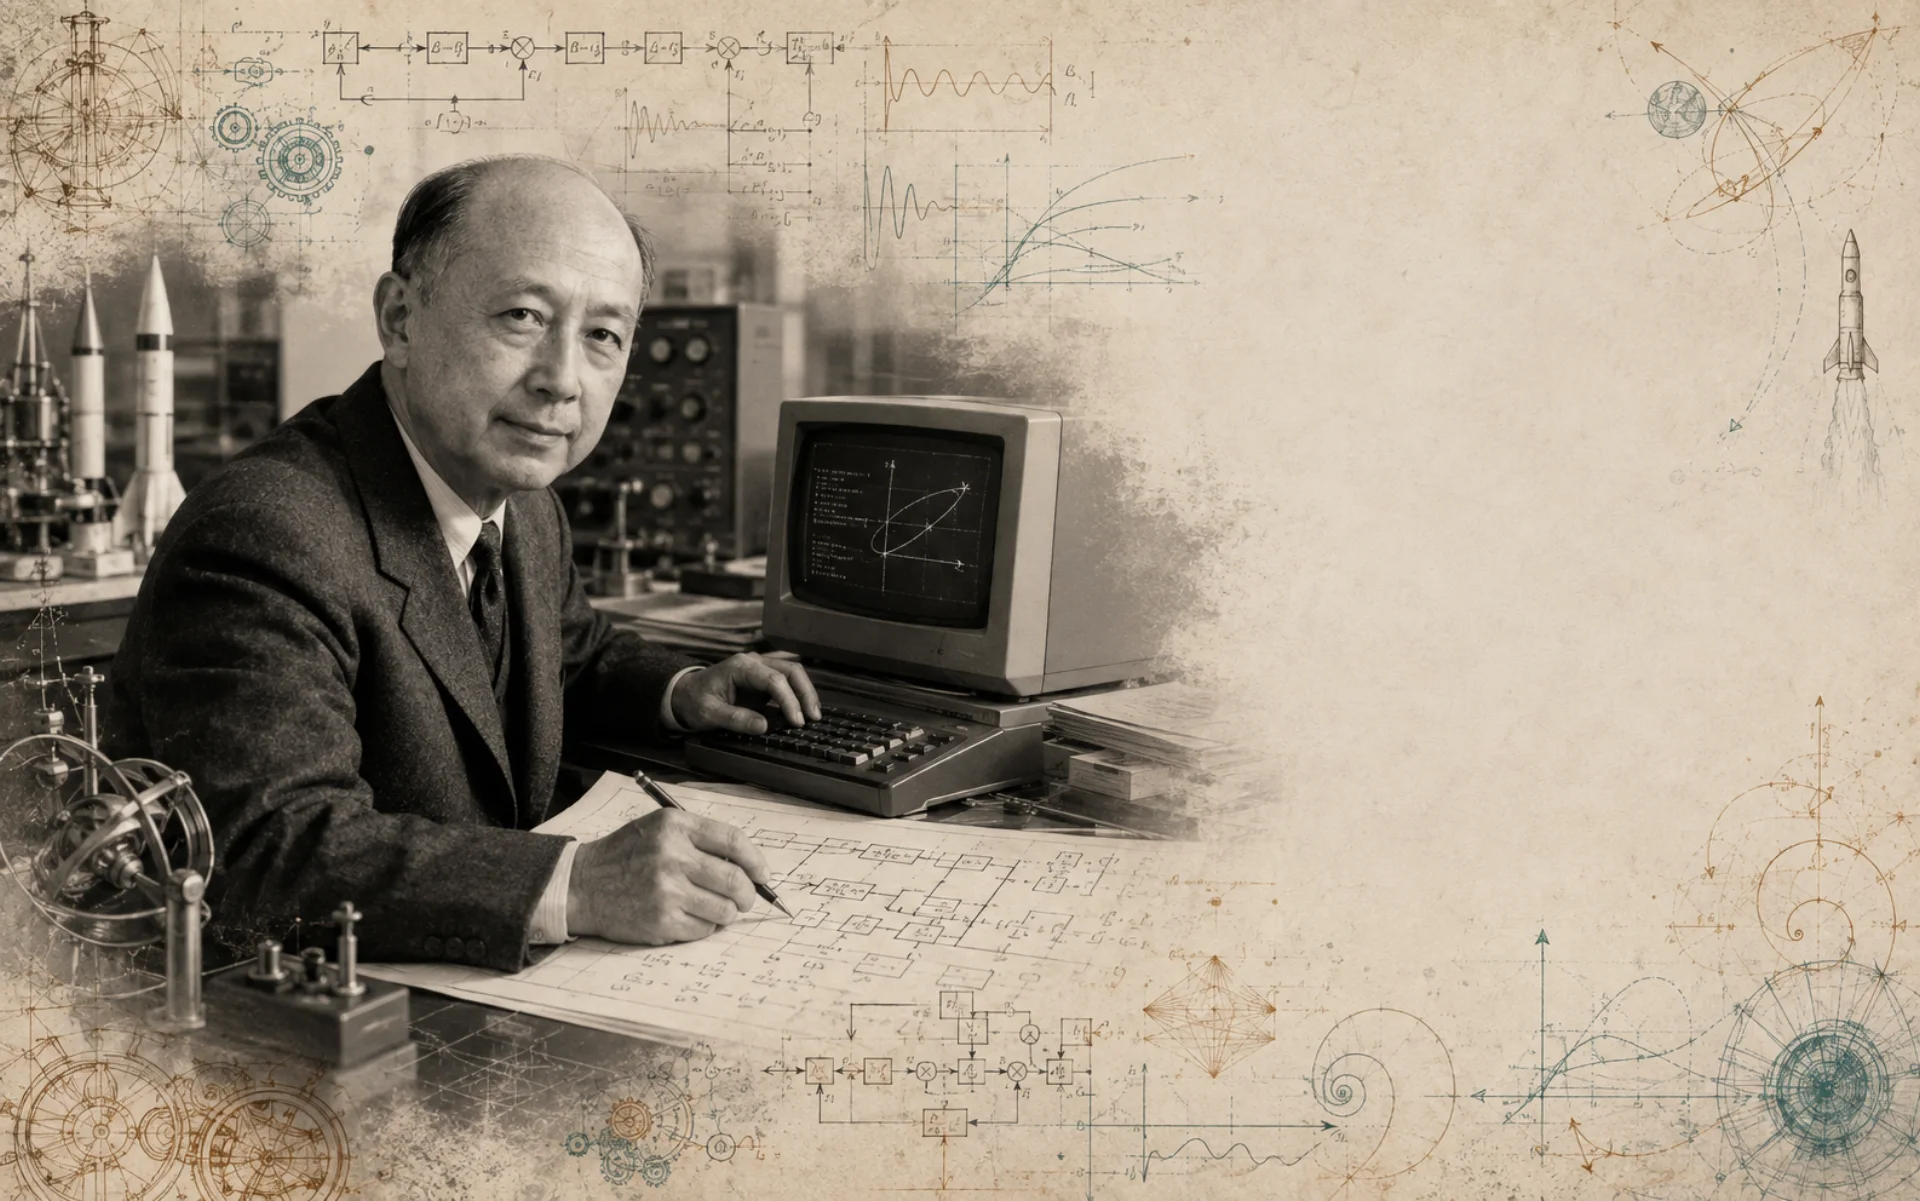
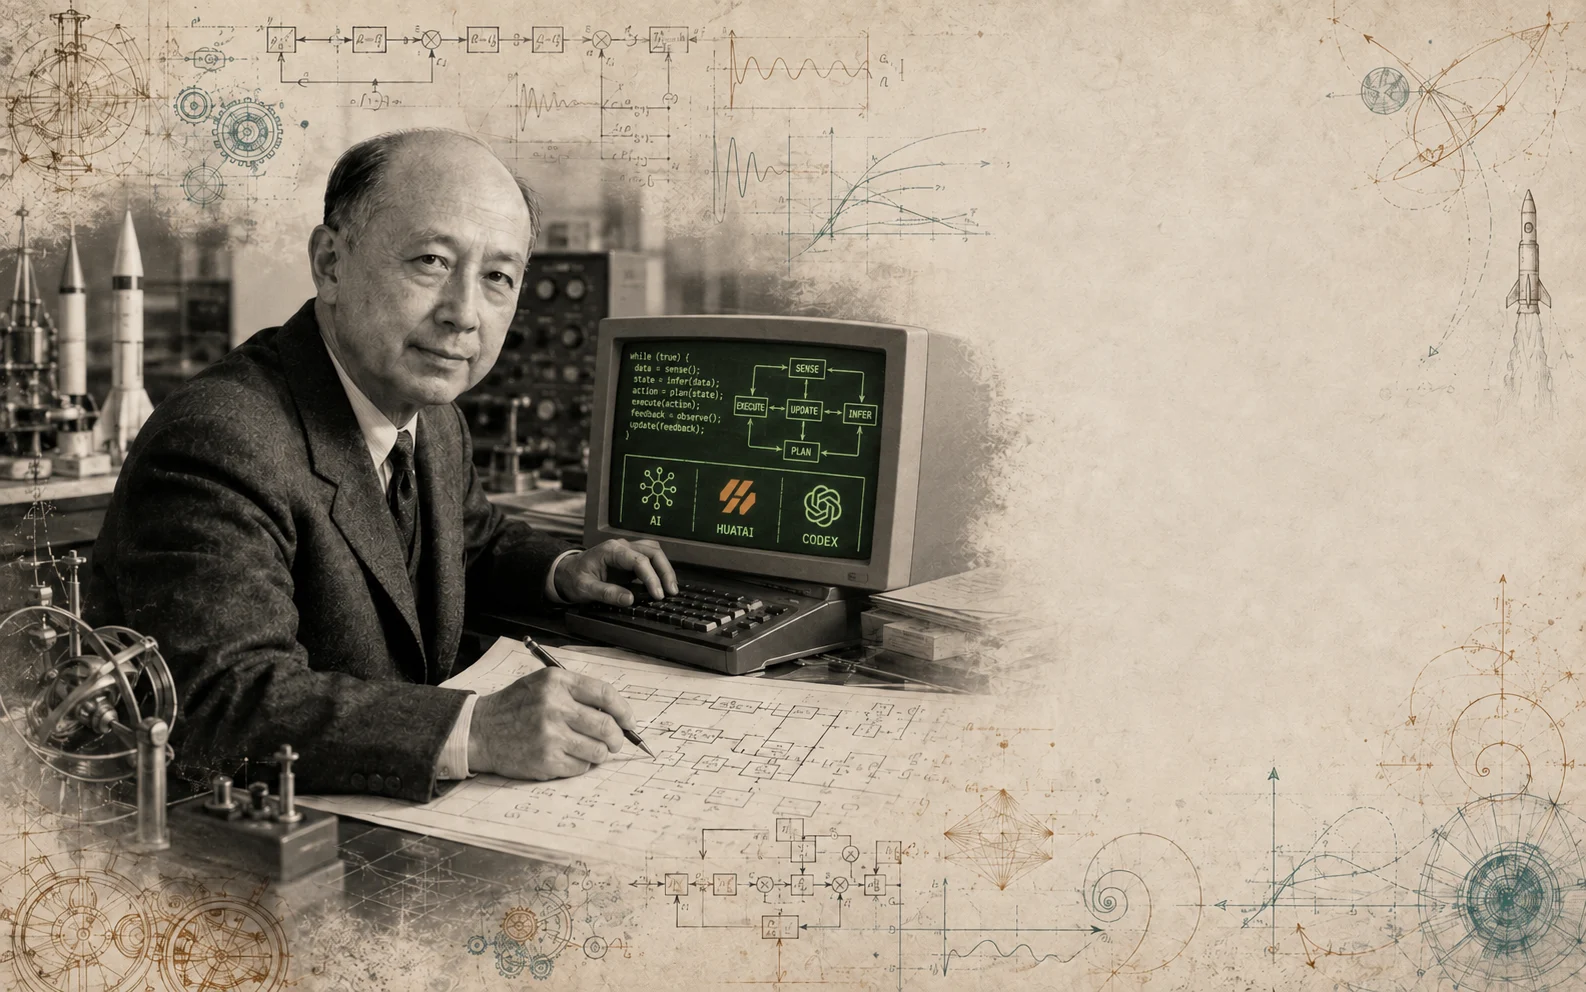
Upgrade control loop and AI opportunity lens

diff --git a/lanes/control/styles.css b/lanes/control/styles.css
@@ -74,7 +74,7 @@ button, a { font: inherit; }
   height: 100%;
   display: block;
   object-fit: cover;
-  object-position: 30% 50%;
+  object-position: 30% 20%;
   filter: saturate(.78) contrast(1.02) sepia(.08);
 }
 
@@ -270,11 +270,33 @@ button, a { font: inherit; }
   overflow: hidden;
   contain: layout style paint;
   border: 1px solid #26382f;
+  background: #07120f;
+}
+
+.loop-stage::before {
+  content: "";
+  position: absolute;
+  z-index: 2;
+  inset: 0;
   background:
-    radial-gradient(circle at 50% 48%, rgba(169, 101, 58, .11), transparent 25%),
-    linear-gradient(rgba(255, 255, 255, .026) 1px, transparent 1px) 0 0 / 34px 34px,
-    linear-gradient(90deg, rgba(255, 255, 255, .026) 1px, transparent 1px) 0 0 / 34px 34px,
-    var(--forest);
+    radial-gradient(circle at 50% 49%, rgba(4, 15, 12, .03) 0 18%, rgba(4, 15, 12, .58) 45%, rgba(4, 15, 12, .14) 76%),
+    linear-gradient(90deg, rgba(3, 12, 10, .26), transparent 24% 76%, rgba(3, 12, 10, .26));
+  pointer-events: none;
+}
+
+.control-loop-art {
+  position: absolute;
+  z-index: 1;
+  inset: 0;
+  width: 100%;
+  height: 100%;
+  display: block;
+  object-fit: cover;
+  object-position: 50% 50%;
+  opacity: .88;
+  filter: saturate(.82) contrast(1.06) brightness(.76);
+  animation: loop-art-breathe 8s ease-in-out infinite;
+  pointer-events: none;
 }
 
 .loop-stage::after {
@@ -282,7 +304,8 @@ button, a { font: inherit; }
   position: absolute;
   right: 13px;
   bottom: 10px;
-  color: rgba(242, 234, 219, .25);
+  z-index: 8;
+  color: rgba(242, 234, 219, .42);
   font: 800 8px/1 ui-monospace, SFMono-Regular, Menlo, monospace;
   letter-spacing: .17em;
 }
@@ -292,6 +315,7 @@ button, a { font: inherit; }
   inset: 6% 4%;
   width: 92%;
   height: 88%;
+  display: none;
   overflow: visible;
 }
 
@@ -351,10 +375,12 @@ button, a { font: inherit; }
   top: var(--y);
   width: clamp(142px, 18vw, 190px);
   padding: 11px 13px 12px;
-  border: 1px solid rgba(229, 218, 199, .24);
+  border: 1px solid rgba(229, 218, 199, .28);
   color: #e9e1d2;
-  background: rgba(20, 34, 28, .94);
-  opacity: .56;
+  background: rgba(7, 20, 16, .78);
+  box-shadow: 0 16px 38px rgba(0, 0, 0, .22), inset 0 0 28px rgba(94, 165, 129, .04);
+  backdrop-filter: blur(7px) saturate(.82);
+  opacity: .66;
   transform: translate(-50%, -50%) scale(.97);
   transition: transform .6s cubic-bezier(.16, 1, .3, 1), opacity .45s ease, background .45s ease, border-color .45s ease;
 }
@@ -369,7 +395,8 @@ button, a { font: inherit; }
 
 .loop-node.is-active {
   border-color: rgba(219, 168, 124, .88);
-  background: #2d3d33;
+  background: rgba(42, 60, 50, .94);
+  box-shadow: 0 0 0 1px rgba(239, 190, 131, .16), 0 0 30px rgba(217, 143, 75, .26), 0 18px 42px rgba(0, 0, 0, .34);
   opacity: 1;
   transform: translate(-50%, -50%) scale(1);
 }
@@ -386,7 +413,12 @@ button, a { font: inherit; }
   z-index: 3;
   left: 49%;
   top: 48%;
-  width: min(33%, 240px);
+  width: min(35%, 250px);
+  padding: 16px 17px;
+  border: 1px solid rgba(195, 138, 91, .32);
+  background: rgba(4, 17, 13, .7);
+  box-shadow: inset 0 0 32px rgba(75, 140, 108, .08), 0 12px 35px rgba(0, 0, 0, .24);
+  backdrop-filter: blur(8px);
   text-align: center;
   transform: translate(-50%, -50%);
 }
@@ -426,7 +458,100 @@ button, a { font: inherit; }
   grid-template-rows: auto minmax(0, 1fr) auto;
 }
 
+.opportunity-section {
+  grid-template-rows: auto auto auto auto;
+  align-content: start;
+}
+
 .work-heading { border-bottom: 1px solid var(--line); }
+.work-heading > p {
+  max-width: 230px;
+  margin: 0 0 1px;
+  color: var(--muted);
+  font-size: 10px;
+  line-height: 1.55;
+  text-align: right;
+}
+
+.opportunity-ladder { display: grid; }
+
+.opportunity-tier {
+  position: relative;
+  padding: 14px 15px 13px 52px;
+  border-bottom: 1px solid var(--line);
+  overflow: hidden;
+}
+
+.opportunity-tier::before {
+  content: "";
+  position: absolute;
+  left: 0;
+  top: 0;
+  bottom: 0;
+  width: 4px;
+  background: #9da69e;
+}
+
+.opportunity-tier::after {
+  content: attr(data-tier);
+  position: absolute;
+  right: 4px;
+  top: 7px;
+  color: rgba(24, 37, 31, .045);
+  font: 900 48px/1 ui-monospace, SFMono-Regular, Menlo, monospace;
+}
+
+.opportunity-tier header {
+  display: flex;
+  align-items: center;
+  justify-content: space-between;
+  gap: 12px;
+}
+
+.opportunity-tier header span,
+.opportunity-tier header b,
+.demo-map span {
+  font-family: ui-monospace, SFMono-Regular, Menlo, Monaco, Consolas, monospace;
+  letter-spacing: .07em;
+}
+
+.opportunity-tier header span { color: var(--copper); font-size: 8px; font-weight: 850; }
+.opportunity-tier header b { color: #818b84; font-size: 7px; }
+.opportunity-tier h3 { margin: 5px 0 0; font-size: clamp(15px, 1.14vw, 19px); line-height: 1.2; letter-spacing: -.015em; }
+.opportunity-tier > p { margin: 5px 0 8px; color: var(--muted); font-size: 9.5px; line-height: 1.5; }
+.opportunity-tier ul { display: flex; flex-wrap: wrap; gap: 5px; margin: 0 0 9px; padding: 0; list-style: none; }
+.opportunity-tier li { padding: 4px 7px; border: 1px solid #d1c8ba; color: #526058; background: rgba(250, 248, 242, .7); font-size: 8px; line-height: 1.25; }
+.opportunity-tier dl { display: grid; grid-template-columns: 1fr 1.45fr; gap: 8px; margin: 0; }
+.opportunity-tier dl > div { display: grid; grid-template-columns: max-content 1fr; gap: 6px; align-items: baseline; }
+.opportunity-tier dt { color: #8d694f; font-size: 8px; font-weight: 800; }
+.opportunity-tier dd { margin: 0; color: #425049; font-size: 8px; line-height: 1.35; }
+
+.tier-foundation { background: linear-gradient(90deg, rgba(255,255,255,.16), transparent); }
+.tier-foundation::before { background: #8c9a91; }
+.tier-structure { background: linear-gradient(90deg, rgba(169, 101, 58, .045), transparent 65%); }
+.tier-structure::before { background: var(--copper); }
+.tier-advanced { color: #f2ebdf; background: linear-gradient(115deg, #243a30, #15261f 72%); }
+.tier-advanced::before { background: linear-gradient(#dc9e68, #77baa0); }
+.tier-advanced header span { color: #efb680; }
+.tier-advanced header b { color: #a4c5b3; }
+.tier-advanced > p { color: #bdc9c0; }
+.tier-advanced li { border-color: rgba(195, 168, 138, .34); color: #dfe7df; background: rgba(255,255,255,.035); }
+.tier-advanced dt { color: #efb680; }
+.tier-advanced dd { color: #e1e8e2; }
+
+.demo-map {
+  display: grid;
+  grid-template-columns: repeat(3, 1fr);
+  border-bottom: 1px solid var(--line);
+}
+
+.demo-map article { min-width: 0; padding: 11px 12px 12px; border-right: 1px solid var(--line); }
+.demo-map article:last-child { border-right: 0; }
+.demo-map span { display: block; color: var(--copper); font-size: 7px; font-weight: 850; }
+.demo-map b { display: block; margin-top: 4px; font-size: 11px; }
+.demo-map p { margin: 4px 0 0; color: var(--muted); font-size: 8px; line-height: 1.45; }
+
+.opportunity-note { margin-top: 11px; }
 .work-list { min-height: 0; }
 
 .work-item {
@@ -504,6 +629,11 @@ button, a { font: inherit; }
   50% { opacity: .68; transform: scale(1); }
 }
 
+@keyframes loop-art-breathe {
+  0%, 100% { filter: saturate(.8) contrast(1.05) brightness(.73); transform: scale(1); }
+  50% { filter: saturate(.9) contrast(1.08) brightness(.82); transform: scale(1.008); }
+}
+
 @media (max-width: 1100px) {
   .control-page { overflow: auto; }
   .control-hero { grid-template-columns: minmax(220px, .6fr) minmax(0, 1fr); }
@@ -513,6 +643,7 @@ button, a { font: inherit; }
   .control-body { grid-template-columns: 1fr; }
   .loop-section { min-height: 620px; padding-right: 0; padding-bottom: 28px; border-right: 0; border-bottom: 1px solid var(--line); }
   .work-section { min-height: 650px; }
+  .opportunity-section { min-height: 0; }
 }
 
 @media (max-width: 720px) {
@@ -520,7 +651,7 @@ button, a { font: inherit; }
   .control-hero { display: block; min-height: 0; padding: 250px 18px 20px; }
   .control-hero::after { background: linear-gradient(180deg, transparent 0 185px, rgba(241, 237, 228, .86) 235px, var(--paper) 310px); }
   .control-portrait { width: 100%; height: 300px; }
-  .control-portrait img { object-position: 28% 44%; }
+  .control-portrait img { object-position: 28% 42%; }
   .control-portrait figcaption { left: 18px; bottom: 48px; }
   .control-kicker { margin-bottom: 20px; }
   .control-intro { margin-top: 20px; }
@@ -552,6 +683,13 @@ button, a { font: inherit; }
   .loop-centre p { margin-top: 6px; }
   .loop-boundary { grid-template-columns: max-content 1fr; padding: 15px 0 4px; }
   .work-section { min-height: 0; padding-top: 24px; }
+  .work-heading > p { max-width: none; text-align: left; }
+  .opportunity-tier { padding: 15px 12px 14px 34px; }
+  .opportunity-tier dl { grid-template-columns: 1fr; }
+  .opportunity-tier dl > div { grid-template-columns: 64px 1fr; }
+  .demo-map { grid-template-columns: 1fr; }
+  .demo-map article { border-right: 0; border-bottom: 1px solid var(--line); }
+  .demo-map article:last-child { border-bottom: 0; }
   .work-item { grid-template-columns: 32px minmax(0, 1fr); }
   .work-label { align-items: start; flex-direction: column; gap: 4px; }
   .work-copy h3 { font-size: 17px; }

diff --git a/lanes/control/index.html b/lanes/control/index.html
@@ -6,13 +6,13 @@
   <meta name="color-scheme" content="light">
   <meta name="theme-color" content="#f1ede4">
   <title>04 闭环 · 从自动化到可复验</title>
-  <link rel="stylesheet" href="styles.css?v=r11-0905">
+  <link rel="stylesheet" href="styles.css?v=r12-0905">
 </head>
 <body>
   <main class="control-page">
     <header class="control-hero">
       <figure class="control-portrait" aria-label="钱学森在控制系统工作台前进行人机协作的创意合成图">
-        <img src="assets/qian-control-vibe-coding.webp?v=r11-0905" alt="钱学森在老式工程工作台前使用计算机，照片边缘融入控制回路与达芬奇式工程线稿的创意合成图">
+        <img src="assets/qian-control-vibe-coding.webp?v=r12-0905" alt="钱学森在老式工程工作台前使用带有 AI、华泰和 Codex 标记的计算机，照片边缘融入控制回路与达芬奇式工程线稿的创意合成图">
         <figcaption>创意合成 · 并非历史照片</figcaption>
       </figure>
       <div class="control-kicker"><span>04</span> CONTROL LOOP</div>
@@ -44,6 +44,7 @@
         </div>
 
         <div id="loop-stage" class="loop-stage" aria-live="polite">
+          <img class="control-loop-art" src="assets/control-loop-blueprint.webp?v=r12-0905" alt="目标、观察、比较偏差与上游纠偏组成的控制系统能量闭环创意图">
           <svg class="loop-track" viewBox="0 0 760 430" role="img" aria-label="目标、观察、比较偏差、纠偏后回到目标的闭环">
             <defs>
               <marker id="loop-arrow" markerWidth="10" markerHeight="10" refX="7" refY="3" orient="auto" markerUnits="strokeWidth">
@@ -56,16 +57,16 @@
 
           <div id="loop-packet" class="loop-packet" aria-hidden="true"><i></i></div>
 
-          <article class="loop-node node-target is-active" data-loop-node="0" style="--x: 28%; --y: 14%;">
+          <article class="loop-node node-target is-active" data-loop-node="0" style="--x: 22%; --y: 20%;">
             <span>01</span><strong>定目标</strong><p>先说清什么叫做完</p><small>口径 · 边界 · 责任人</small>
           </article>
-          <article class="loop-node node-observe" data-loop-node="1" style="--x: 78%; --y: 39%;">
+          <article class="loop-node node-observe" data-loop-node="1" style="--x: 78%; --y: 22%;">
             <span>02</span><strong>看实际</strong><p>从来源和结果看事实</p><small>原文 · 公式 · 检查记录</small>
           </article>
-          <article class="loop-node node-compare" data-loop-node="2" style="--x: 55%; --y: 76%;">
+          <article class="loop-node node-compare" data-loop-node="2" style="--x: 78%; --y: 73%;">
             <span>03</span><strong>找偏差</strong><p>实际和目标哪里没对上</p><small>漏项 · 错配 · 例外</small>
           </article>
-          <article class="loop-node node-correct" data-loop-node="3" style="--x: 15%; --y: 61%;">
+          <article class="loop-node node-correct" data-loop-node="3" style="--x: 21%; --y: 74%;">
             <span>04</span><strong>修上游</strong><p>不在结果页打一块补丁</p><small>改来源 / 公式 / 规则，再跑</small>
           </article>
 
@@ -82,46 +83,47 @@
         </div>
       </section>
 
-      <section class="work-section" aria-labelledby="work-title">
+      <section class="work-section opportunity-section" aria-labelledby="work-title">
         <div class="section-heading work-heading">
-          <div><span>B / THREE WORK TYPES</span><h2 id="work-title">三类工作，最值得先做</h2></div>
+          <div><span>B / AI OPPORTUNITY LENS</span><h2 id="work-title">从业务需求，识别 AI 提效潜力</h2></div>
+          <p>别只盯着“重复劳动”。越往下，越接近判断增强。</p>
         </div>
 
-        <div class="work-list">
-          <article class="work-item" data-work="retrieval">
-            <div class="work-number">01</div>
-            <div class="work-copy">
-              <div class="work-label"><span>查资料</span><small>HERO 03 · 先例检索</small></div>
-              <h3>资料多、入口散，还要回到原文</h3>
-              <p>先把候选找全，再收窄到案例、页码和适用边界。</p>
-              <dl><div><dt>机器先做</dt><dd>检索、归组、回链</dd></div><div><dt>人来判断</dt><dd>是不是同一问题，案例能不能用</dd></div></dl>
-            </div>
+        <div class="opportunity-ladder">
+          <article class="opportunity-tier tier-foundation" data-tier="01">
+            <header><span>01 · 基础</span><b>AUTOMATE</b></header>
+            <h3>量大、重复、可以核证</h3>
+            <p>规则已经写得清楚，主要价值是少做机械动作、少漏项。</p>
+            <ul><li>批量抽取与格式检查</li><li>数据核证与勾稽</li><li>Checklist 重跑</li></ul>
+            <dl><div><dt>机器先做</dt><dd>执行、比对、留痕</dd></div><div><dt>人来判断</dt><dd>样本、阈值和例外</dd></div></dl>
           </article>
 
-          <article class="work-item" data-work="model">
-            <div class="work-number">02</div>
-            <div class="work-copy">
-              <div class="work-label"><span>跑模型</span><small>HERO 01 · 财务模型</small></div>
-              <h3>公式链长，一个假设会牵动很多表</h3>
-              <p>沿公式重算，比较实际与预期；对不上就展开 lineage。</p>
-              <dl><div><dt>机器先做</dt><dd>联动、枚举、勾稽</dd></div><div><dt>人来判断</dt><dd>假设能不能改，目标是否合理</dd></div></dl>
-            </div>
+          <article class="opportunity-tier tier-structure" data-tier="02">
+            <header><span>02 · 中级</span><b>LOW-HANGING FRUIT</b></header>
+            <h3>公开、可抓、能够结构化整合</h3>
+            <p>信息本来散落在网页、PDF 和表格里；先接成一套可比较的数据底盘。</p>
+            <ul><li>监管进度与市场数据库</li><li>先例库与可比公司</li><li>估值模型数据底盘</li></ul>
+            <dl><div><dt>机器先做</dt><dd>抓取、归组、版本对比</dd></div><div><dt>人来判断</dt><dd>口径、可比性和适用边界</dd></div></dl>
           </article>
 
-          <article class="work-item" data-work="review">
-            <div class="work-number">03</div>
-            <div class="work-copy">
-              <div class="work-label"><span>持续复核</span><small>HERO 02 · 监管雷达</small></div>
-              <h3>每天都要跑，规则和来源还会变化</h3>
-              <p>主线持续更新，抽查回上游修；每周再看该不该改规则。</p>
-              <dl><div><dt>机器先做</dt><dd>监测、抽查、重跑</dd></div><div><dt>人来判断</dt><dd>问题是否成立，何时换版本</dd></div></dl>
-            </div>
+          <article class="opportunity-tier tier-advanced" data-tier="03">
+            <header><span>03 · 高级</span><b>AUGMENT JUDGMENT</b></header>
+            <h3>跨文件找模式，在结果出现前看见风险与价值</h3>
+            <p>依赖链横跨文件、数据表和结论；需要 pattern recognition，也需要项目经验与模型“手感”。</p>
+            <ul><li>多文件交叉与矛盾定位</li><li>风险预警与红旗挖掘</li><li>估值情景、模型调参与敏感性</li><li>价值线索与“打开视角”的案例</li></ul>
+            <dl><div><dt>机器先做</dt><dd>连依赖、扫模式、排异常</dd></div><div><dt>人来判断</dt><dd>是否重要、为什么、下一步怎么做</dd></div></dl>
           </article>
         </div>
 
-        <aside class="fit-note" role="note">
-          <span>一个简单判断</span>
-          <p><b>重复出现、规则可写、结果可查、错误能反馈</b>——这样的工作，通常值得先接成闭环。</p>
+        <div class="demo-map" aria-label="本次三个演示与机会层级的对应关系">
+          <article><span>HERO 03</span><b>查资料</b><p>从公开材料整合，走向跨文件 pattern。</p></article>
+          <article><span>HERO 01</span><b>跑模型</b><p>从公式联动，走向估值与情景判断。</p></article>
+          <article><span>HERO 02</span><b>持续复核</b><p>从定期检查，走向风险预警与规则反馈。</p></article>
+        </div>
+
+        <aside class="fit-note opportunity-note" role="note">
+          <span>一个更好的问题</span>
+          <p>不只问“这一步能不能自动化”，还要问：<b>哪些原来查不完、比不动、看不见的信号，现在可以变成可判断的证据？</b></p>
         </aside>
       </section>
     </section>
@@ -131,6 +133,6 @@
       <a href="../../?scene=hero5" target="_top">进入现场问答 <span aria-hidden="true">→</span></a>
     </footer>
   </main>
-  <script src="app.js?v=r11-0905"></script>
+  <script src="app.js?v=r12-0905"></script>
 </body>
 </html>

diff --git a/index.html b/index.html
@@ -56,7 +56,7 @@
         <iframe title="先例检索与招股书 RAG 两速检索" data-lane-frame="hero3" data-src="lanes/rag/index.html?scene=hero3&amp;state=rag-live&amp;rev=r11-0905" allow="clipboard-read; clipboard-write"></iframe>
       </section>
       <section id="panel-hero4" class="lane-panel" role="tabpanel" aria-labelledby="tab-hero4" data-lane="control" hidden>
-        <iframe title="钱学森控制论与三类可 AI 化工作" data-lane-frame="hero4" data-src="lanes/control/index.html?rev=r11-0905"></iframe>
+        <iframe title="钱学森控制论与 AI 提效机会识别" data-lane-frame="hero4" data-src="lanes/control/index.html?rev=r12-0905"></iframe>
       </section>
       <section id="panel-hero5" class="lane-panel" role="tabpanel" aria-labelledby="tab-hero5" data-lane="qa" hidden>
         <iframe title="现场问答与演示资料" data-lane-frame="hero5" data-src="lanes/qa/index.html?rev=r11-0905"></iframe>

diff --git a/README.md b/README.md
@@ -5,7 +5,7 @@ Five public training surfaces are kept separate behind one navigation shell:
 1. Financial model live challenge
 2. Regulatory Radar
 3. Precedent retrieval and prospectus RAG
-4. Qian Xuesen-inspired control loop and three AI-suitable work types
+4. Qian Xuesen-inspired control loop and an AI-opportunity maturity lens
 5. Question & Answer, QR return link, and two case slots
 
 The financial-model numbers are synthetic training data. The Q&A page keeps two case slots for supporting materials.
